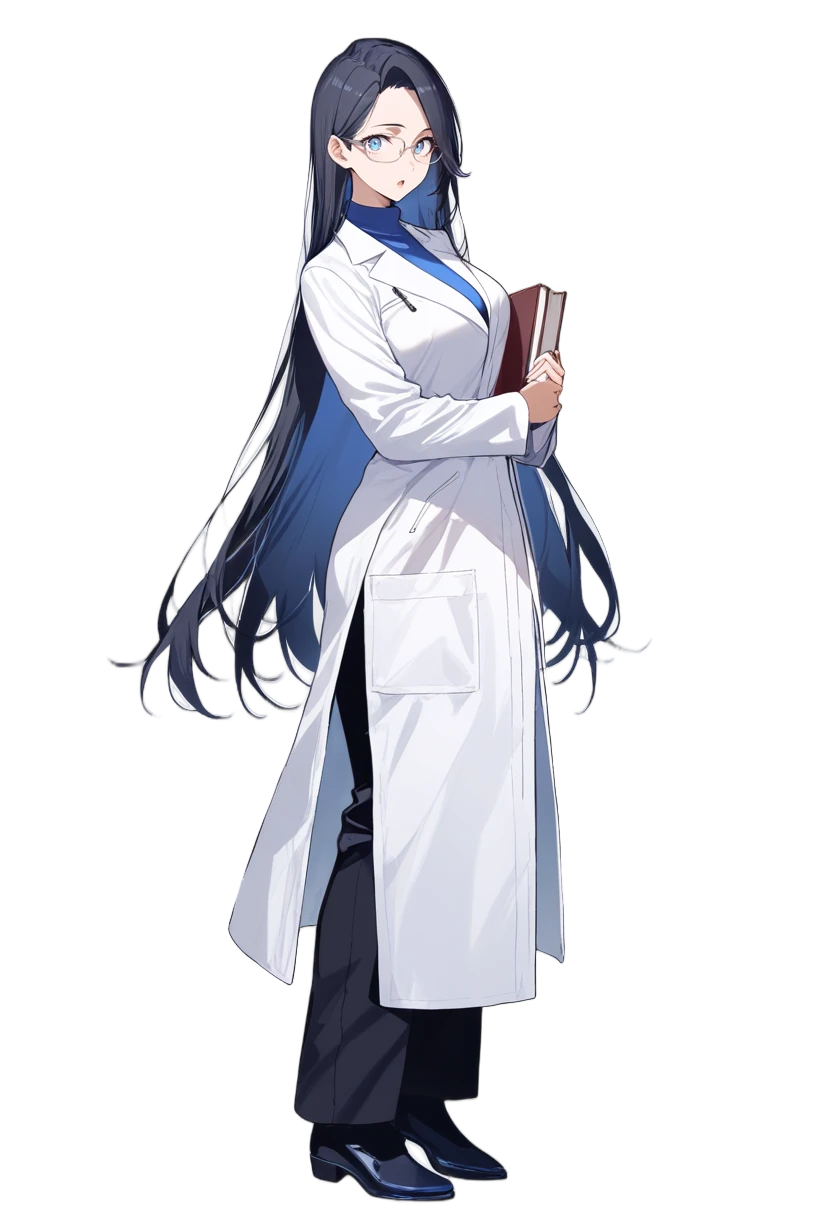
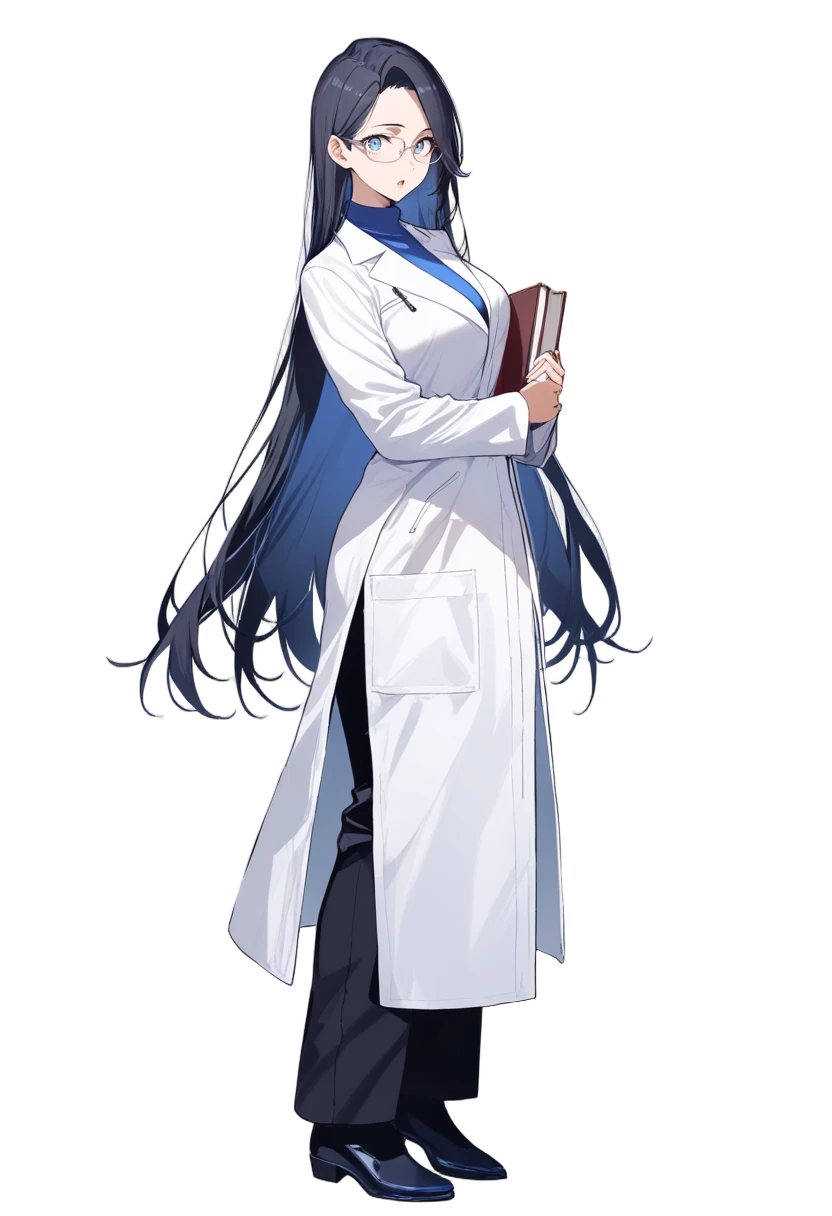
立繪去背改用 bria-rmbg，五位角色全部重做
- 比較 isnet-anime、四種 BiRefNet 與 bria-rmbg：isnet-anime 會把細髮絲之間的背景留下來（沈靜澄的長髮在深色模式出現一條條白邊），BiRefNet 能去掉背景但細髮絲斷成點狀，bria-rmbg 兩者都沒問題
- 五位角色的立繪用 bria-rmbg 加去白邊從原圖重做；拿掉上一版合併兩個模型的做法
- notebook 步驟 4 改用 bria-rmbg（失敗退回 isnet-anime）；art/recut.py 可以用 --mask 直接讀 Colab 算好的遮罩
- plan.md 記錄比較結果，並新增公開前要確認 bria-rmbg 的非商業授權

diff --git a/art/recut.py b/art/recut.py
@@ -1,37 +1,38 @@
 """重做某位角色的立繪去背：從 Colab 產生的原圖重新去背，輸出到 data/characters/<角色>/。
 
-notebook 步驟 4 已經用同樣的方法（兩個去背模型合併 + 去白邊）；這個工具給「已經輸出、要用新方法重做」的立繪用。
+notebook 步驟 4 已經用同樣的方法（bria-rmbg 去背 + 去白邊）；這個工具給「已經輸出、要重做」的立繪用。
 需要原圖：把 Google Drive 的 nmle-art/expr/animagine/<角色>/<基本立繪 seed>/ 下載到 art/<角色>/<基本立繪 seed>/。
 選用的表情 seed 見 characters.md 的「定稿紀錄」。
 
 用法（需要 rembg、scipy：pip install "rembg[cpu]" scipy）：
     python art/recut.py fei 113 normal=2 happy=2 shy=2 sad=2 surprised=2 pout=2
+    python art/recut.py fei 113 --mask art/mask/mask_fei_bria-rmbg.png normal=2 ...
 
+--mask：直接用現成的遮罩（例如在 Colab 算好下載回來的），不在本機跑去背模型。
+bria-rmbg 模型約 1 GB，在某些網路下載很慢，這時先在 Colab 算遮罩比較快。
 去背只用 normal 那張算一次，所有表情共用同一個遮罩，切換表情時輪廓才不會跳動（同 notebook）。
-BiRefNet 在 CPU 上一張大約一分半鐘，模型第一次會下載約 1 GB。
 """
 import sys
 from pathlib import Path
 
 from PIL import Image
-from rembg import new_session, remove
 
-from defringe import combine_masks, defringe, whitish_edges
+from defringe import defringe, whitish_edges
 
 ROOT = Path(__file__).resolve().parent.parent
 
 
-def main(char, base_seed, picks):
+def main(char, base_seed, picks, mask_path=None):
     src = {name: ROOT / 'art' / char / base_seed / name / f'{seed}.png' for name, seed in picks.items()}
     missing = [str(p) for p in src.values() if not p.exists()]
     if missing:
         sys.exit('找不到原圖：\n' + '\n'.join(missing))
-    base = Image.open(src['normal']).convert('RGB')
-    print('去背中（isnet-anime）……', flush=True)
-    isnet = remove(base, session=new_session('isnet-anime'), only_mask=True)
-    print('去背中（birefnet-general，CPU 上約一分半鐘）……', flush=True)
-    bref = remove(base, session=new_session('birefnet-general'), only_mask=True)
-    alpha = combine_masks(isnet, bref)
+    if mask_path:
+        alpha = Image.open(mask_path).convert('L')
+    else:
+        from rembg import new_session, remove
+        print('去背中（bria-rmbg）……', flush=True)
+        alpha = remove(Image.open(src['normal']).convert('RGB'), session=new_session('bria-rmbg'), only_mask=True).convert('L')
     out_dir = ROOT / 'data' / 'characters' / char
     out_dir.mkdir(parents=True, exist_ok=True)
     for name, path in src.items():
@@ -43,6 +44,12 @@ def main(char, base_seed, picks):
 
 
 if __name__ == '__main__':
-    if len(sys.argv) < 4:
+    args = sys.argv[1:]
+    mask = None
+    if '--mask' in args:
+        i = args.index('--mask')
+        mask = args[i + 1]
+        del args[i:i + 2]
+    if len(args) < 3:
         sys.exit(__doc__)
-    main(sys.argv[1], sys.argv[2], dict(a.split('=') for a in sys.argv[3:]))
+    main(args[0], args[1], dict(a.split('=') for a in args[2:]), mask)

diff --git a/art/defringe.py b/art/defringe.py
@@ -1,11 +1,12 @@
-"""立繪去背的後處理：合併兩個去背模型的遮罩（combine_masks），再修正半透明邊緣的顏色（defringe）。
+"""立繪去背的後處理：修正半透明邊緣的顏色，去掉混進來的背景白。
 
 去背模型給頭髮細絲、輪廓邊緣的是半透明遮罩，這沒問題；但這些像素的顏色仍混著原本的淺灰白背景，
 放在網站的深色背景上會出現一圈白色光暈。這裡保留每個像素的透明度，只修正顏色：
 半透明像素 = 前景 × 透明度 + 背景 × (1 - 透明度)，用去背前的背景色反推出前景色；
 太透明、反推不穩定的像素，改用附近不透明部分的平滑顏色。邊緣仍然柔和，但不再帶著背景的白。
 
-透明度本身給錯的地方（例如髮絲之間的背景被當成頭髮）defringe 救不回來，交給 combine_masks；
+透明度本身給錯的地方（例如髮絲之間的背景被當成頭髮）這裡救不回來，要靠去背模型：
+比較過 isnet-anime、BiRefNet 四種、bria-rmbg，bria-rmbg 最好（見 plan.md「美術與內容」）。
 試過依顏色修正透明度，但白袍和淺灰背景太像，會削掉白袍邊緣，所以不做。
 
 要在存成 webp 之前、還有去背前原圖的時候做：全透明的地方要是原本的背景色才算得準。
@@ -54,15 +55,6 @@ def defringe(image: Image.Image, solid: int = SOLID) -> Image.Image:
     out[semi] = (t * fg + (1 - t) * near)[semi]
     rgba[..., :3] = out
     return Image.fromarray(rgba.round().astype(np.uint8), 'RGBA')
-
-
-def combine_masks(isnet: Image.Image, birefnet: Image.Image, cut: float = 60, sigma: float = 1.5) -> Image.Image:
-    """合併兩個去背模型的遮罩：以 isnet-anime 的平滑邊緣為主，BiRefNet 判斷為背景的地方挖掉。
-    isnet-anime 會把髮絲之間的背景當成半透明的頭髮留下來；BiRefNet 能分辨那是背景，但細髮絲的邊緣會變成鋸齒。
-    BiRefNet 的遮罩先稍微模糊，鋸齒才不會傳到結果上。"""
-    b = gaussian_filter(np.asarray(birefnet.convert('L')).astype(float), sigma)
-    keep = np.clip(b / cut, 0, 1)
-    return Image.fromarray((np.asarray(isnet.convert('L')).astype(float) * keep).round().astype(np.uint8), 'L')
 
 
 def whitish_edges(image: Image.Image) -> int:
